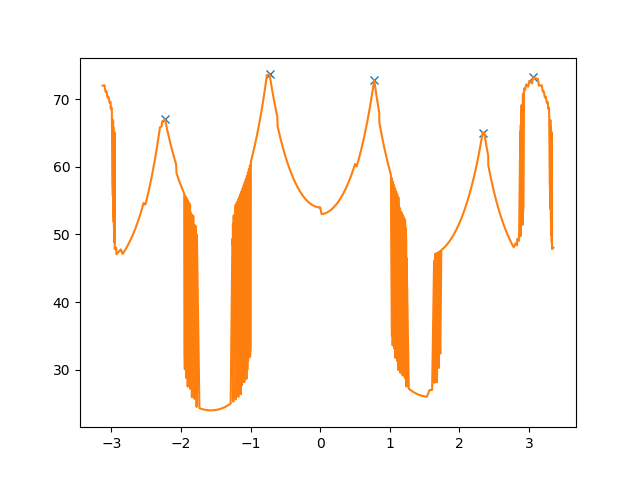
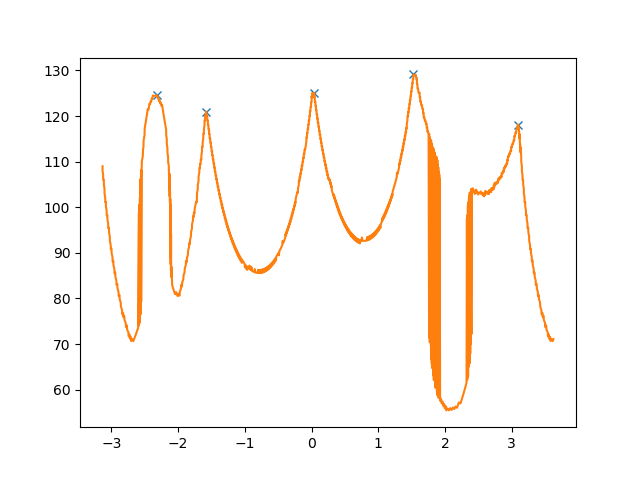
Only working in main directory now. found way to suggest - import using dot and it works. Very resaonable since it otherwise cant run. Added images for debugging. Debugged puzzle.py. Improved corner detection, about 1 in 100 doesnt work. Added GUI to puzzle

diff --git a/image_processing/piece.py b/image_processing/piece.py
@@ -6,9 +6,8 @@ from scipy.signal import find_peaks
 from scipy import ndimage
 import itertools
 
-from constants import *
-import test
-import util
+import image_processing.util as util
+from image_processing.constants import *
 
 
 class Piece(object):
@@ -32,10 +31,18 @@ class Piece(object):
         self._color_vectors = self.create_color_vector()
 
         self._puzzle_edges = self.puzzle_edges()
+        print(self._puzzle_edges)
+
+    def __repr__(self):
+        return self._name
+
+    def get_rotated_piece(self, edge):
+        theta = self._corner_angles[edge] + 3 * np.pi / 4
+        return ndimage.rotate(self._display, theta * 180 / np.pi)
 
     def remove_non_piece(self):
         contours, _ = cv2.findContours(self._below, cv2.RETR_EXTERNAL, cv2.CHAIN_APPROX_NONE)
-        max_c = max(contours, key = cv2.contourArea)
+        max_c = max(contours, key=cv2.contourArea)
 
         for c in contours:
             if len(c) < len(max_c):
@@ -52,6 +59,7 @@ class Piece(object):
         index = 1 # first index will be for black part, second for actual piece
         centroid = tuple(list(centroids[index].astype(int)))
         cv2.circle(self._display, centroid, 3, (0, 0, 255), 7)
+        cv2.putText(self._display, str(self._index), centroid, cv2.FONT_HERSHEY_COMPLEX, 1.5, (255, 255, 255))
 
         return centroid
 
@@ -65,6 +73,9 @@ class Piece(object):
 
         cv2.imshow(self._name + "_edges", edges)
         cv2.imshow(self._name, general)
+
+        cv2.imwrite(PIECES_BASE + self._name.replace(":", "") + ".png", general)
+        cv2.imwrite(PIECES_BASE + self._name.replace(":", "") + " - edges.png", edges)
 
     def find_corners(self):
         # Method 1
@@ -95,7 +106,9 @@ class Piece(object):
         peaks, _ = find_peaks(dists, prominence=(5), threshold=(0, 3))
         plt.plot(angles[peaks], dists[peaks], "x")
         plt.plot(angles, dists)
-        plt.savefig(".\\results\\graphs\\corner_" + str(self._index))
+        # plt.plot(dists[peaks], "x")
+        # plt.plot(dists)
+        plt.savefig(".\\image_processing\\results\\graphs\\corner_" + str(self._index))
         plt.clf()
 
         angles = np.array([angle - 2*np.pi for angle in angles])
@@ -135,8 +148,7 @@ class Piece(object):
 
         print(self._name, chains)
         print(self._name, max_chain)
-        print()
-        cv2.waitKey()
+        # cv2.waitKey()
 
         if len(max_chain) == 3:
             top_pairs = max_chain
@@ -280,8 +292,11 @@ class Piece(object):
             frame[:, :edge_image.shape[1] // 2] = 1
 
             xored = np.bitwise_xor(frame, edge_image)
+            # cv2.imshow("yo", xored)
+            # cv2.waitKey(0)
+
             score = np.sum(xored)
-            puzzle_edges.append(score < 500)
+            puzzle_edges.append(score < 600)
 
         return puzzle_edges
 
@@ -315,16 +330,16 @@ class Piece(object):
         frame2 = cv2.flip(frame2, 1)
         frame2 = cv2.flip(frame2, 0)
 
-        cv2.imshow("1_" + str(idx1), frame1 * 255)
-        cv2.imshow("2_" + str(idx2), frame2 * 255)
+        # cv2.imshow("1_" + str(idx1), frame1 * 255)
+        # cv2.imshow("2_" + str(idx2), frame2 * 255)
 
         xored = cv2.bitwise_xor(frame1, frame2)
         xored = 1 - xored
         score = np.sum(xored)
 
         # xored = (frame1 + frame2) * 100
-        cv2.imshow("XOR", xored * 255)
-        cv2.waitKey(0)
+        # cv2.imshow("XOR", xored * 255)
+        # cv2.waitKey(0)
 
         return score
 

diff --git a/algorithmics/puzzle.py b/algorithmics/puzzle.py
@@ -20,10 +20,6 @@ class Puzzle(object):
         # maybe other way round? matters?
         self._final_puzzle = []
 
-    def display(self):
-        # temp
-        print(self._final_puzzle)
-
     def get_dimensions(self):
         total_edges = len(self._edges) + 2 * len(self._corners)
 
@@ -34,11 +30,24 @@ class Puzzle(object):
 
     def find_closest_piece_edge(self, p, idx, pcs):
         pcs_dists = [(x, p.compare_piece_edge(idx, x)) for x in pcs]
-        return min(pcs_dists, key=lambda x: x[1][1])
+        piece, edge_scores = min(pcs_dists, key=lambda x: x[1][0][1])
+        return piece, edge_scores[0][0]
+
+    def display(self):
+        mat = []
+        for row in self._final_puzzle:
+            row = [cv2.resize(piece.get_rotated_piece(edge).copy(), (200, 200)) for piece, edge in row]
+            row_pic = np.concatenate(tuple(row))
+            mat.append(row_pic)
+        img = np.concatenate(tuple(mat), axis=1)
+
+        cv2.imshow("Puzzle", img)
+        cv2.waitKey(0)
+
 
     # TODO: consider pieces from other rows
     def complete_row(self, first_piece, first_edge, curr_pieces, border):
-        row = [first_piece]
+        row = [(first_piece, (-first_edge) % 4)]
         curr_pieces.remove(first_piece)
 
         curr_edge = first_edge
@@ -54,7 +63,7 @@ class Puzzle(object):
                 curr_edge,
                 supply
             )
-            row.append(curr_piece)
+            row.append((curr_piece, curr_edge))
             curr_pieces.remove(curr_piece)
 
             # have we finished?
@@ -65,16 +74,15 @@ class Puzzle(object):
                 break
 
             # otherwise
-            curr_edge = (connector_edge[1] + 2) % 4
+            curr_edge = (connector_edge + 2) % 4
         return row
 
     def greedy(self):
         curr_pieces = copy.copy(self._pieces)
 
         # start with corner
-        first_piece = [p for p in curr_pieces if p.is_puzzle_corner()][0]
+        first_piece = [p for p in curr_pieces if p.is_puzzle_corner()][2]
         first_edges = first_piece.get_puzzle_regs_indices()
-        curr_pieces.remove(first_piece)
 
         # move along first indices
         first_row = self.complete_row(first_piece, first_edges[0], curr_pieces, True)
@@ -83,6 +91,7 @@ class Puzzle(object):
 
         row_first_piece = first_piece
         row_connecting_edge = first_edges[1]
+
         while len(curr_pieces) > 0:
             # find first piece in row
             row_first_piece, row_connecting_edge = self.find_closest_piece_edge(
@@ -91,14 +100,11 @@ class Puzzle(object):
                 [p for p in curr_pieces if p.is_puzzle_edge()]
             )
             row_puzzle_edge = row_first_piece.get_puzzle_edges_indices()[0]
-            row_first_edge = (row_puzzle_edge + 2) % 4
             row_connecting_edge = (row_connecting_edge + 2) % 4
 
             # find the row
-            curr_row = self.complete_row(row_first_piece, row_first_piece, curr_pieces, False)
+            curr_row = self.complete_row(row_first_piece, row_connecting_edge, curr_pieces, False)
             self._final_puzzle.append(curr_row)
-
-        print(self._final_puzzle)
 
 
 

diff --git a/image_processing/image_proc.py b/image_processing/image_proc.py
@@ -1,10 +1,10 @@
 import numpy as np
 import cv2
 
-import util
-from constants import *
-import piece
-import parse_pieces
+import image_processing.util as util
+from image_processing.constants import *
+import image_processing.piece as piece
+import image_processing.parse_pieces as parse_pieces
 
 def get_pieces(test=False):
     if test:
@@ -17,7 +17,7 @@ def get_pieces(test=False):
     masked = parse_pieces.mask_rgb(above, binary)
 
     util.output("below", below)
-    cv2.waitKey(0)
+    # cv2.waitKey(0)
 
     not_masked = parse_pieces.show_diffs(above, binary)
     recoged, pieces = parse_pieces.recog_pieces(masked, below, binary)
@@ -37,5 +37,5 @@ def get_pieces(test=False):
 if __name__ == "__main__":
     get_pieces(test=True)
 
-    k = cv2.waitKey(0)
+    # k = cv2.waitKey(0)
     cv2.destroyAllWindows()

diff --git a/image_processing/util.py b/image_processing/util.py
@@ -1,8 +1,8 @@
 import cv2
 import numpy as np
-from constants import *
-
 import math
+
+from image_processing.constants import *
 
 
 def rotate(origin, point, angle):
@@ -30,10 +30,17 @@ def dist_from_line(next_corner, point):
 
 
 def relevant_section(img):
+    # for 2 pieces
     # tmp = img[-900:-200,-650:-200]
-    tmp = img[70:-100,300:-230]
+
+    # for 34 pieces
+    # tmp = img[70:-100,300:-230]
+
+    #for 4 pieces
+    tmp = img[100:-100,300:-230]
+
     cv2.imshow("tmp", cv2.resize(tmp, dsize=(500, 500), interpolation=cv2.INTER_CUBIC))
-    cv2.waitKey(0)
+    # cv2.waitKey(0)
     return tmp
 
 

diff --git a/image_processing/parse_pieces.py b/image_processing/parse_pieces.py
@@ -1,9 +1,10 @@
 import numpy as np
 import cv2
 
-from constants import *
-import piece
-import util
+import image_processing.util as util
+from image_processing.constants import *
+import image_processing.piece as piece
+
 
 def create_mask(below):
     below[below >= THRESH] = 0
@@ -57,6 +58,6 @@ def recog_pieces(above, below, binary):
             index += 1
 
     util.output("test", recoged)
-    cv2.waitKey(0)
+    # cv2.waitKey(0)
 
     return recoged, pieces

diff --git a/image_processing/constants.py b/image_processing/constants.py
@@ -1,8 +1,9 @@
-BASE = "./test_images/"
-ABOVE = BASE + "test_above.jpeg"
-BELOW = BASE + "test_below.jpeg"
+BASE = "./image_processing/test_images/"
+ABOVE = BASE + "above6.jpeg"
+BELOW = BASE + "below6.jpeg"
 
-RESULTS_BASE = "./results/"
+RESULTS_BASE = "./image_processing/results/"
+PIECES_BASE = "./image_processing/pieces/"
 
 THRESH = 75
 CNT_THRESH = 50

diff --git a/main.py b/main.py
@@ -1,10 +1,11 @@
 import image_processing.image_proc as im_proc
-import image_processing.puzzle as puzzle
+import algorithmics.puzzle as puzzle
 
 
 # Exciting! actual real main
 # Need to think about shceme - maybe we need thread for greedy in terms of speed
 # If it's slow, then greedy and execution are intertwined
+
 
 def main():
     # Parse pieces
